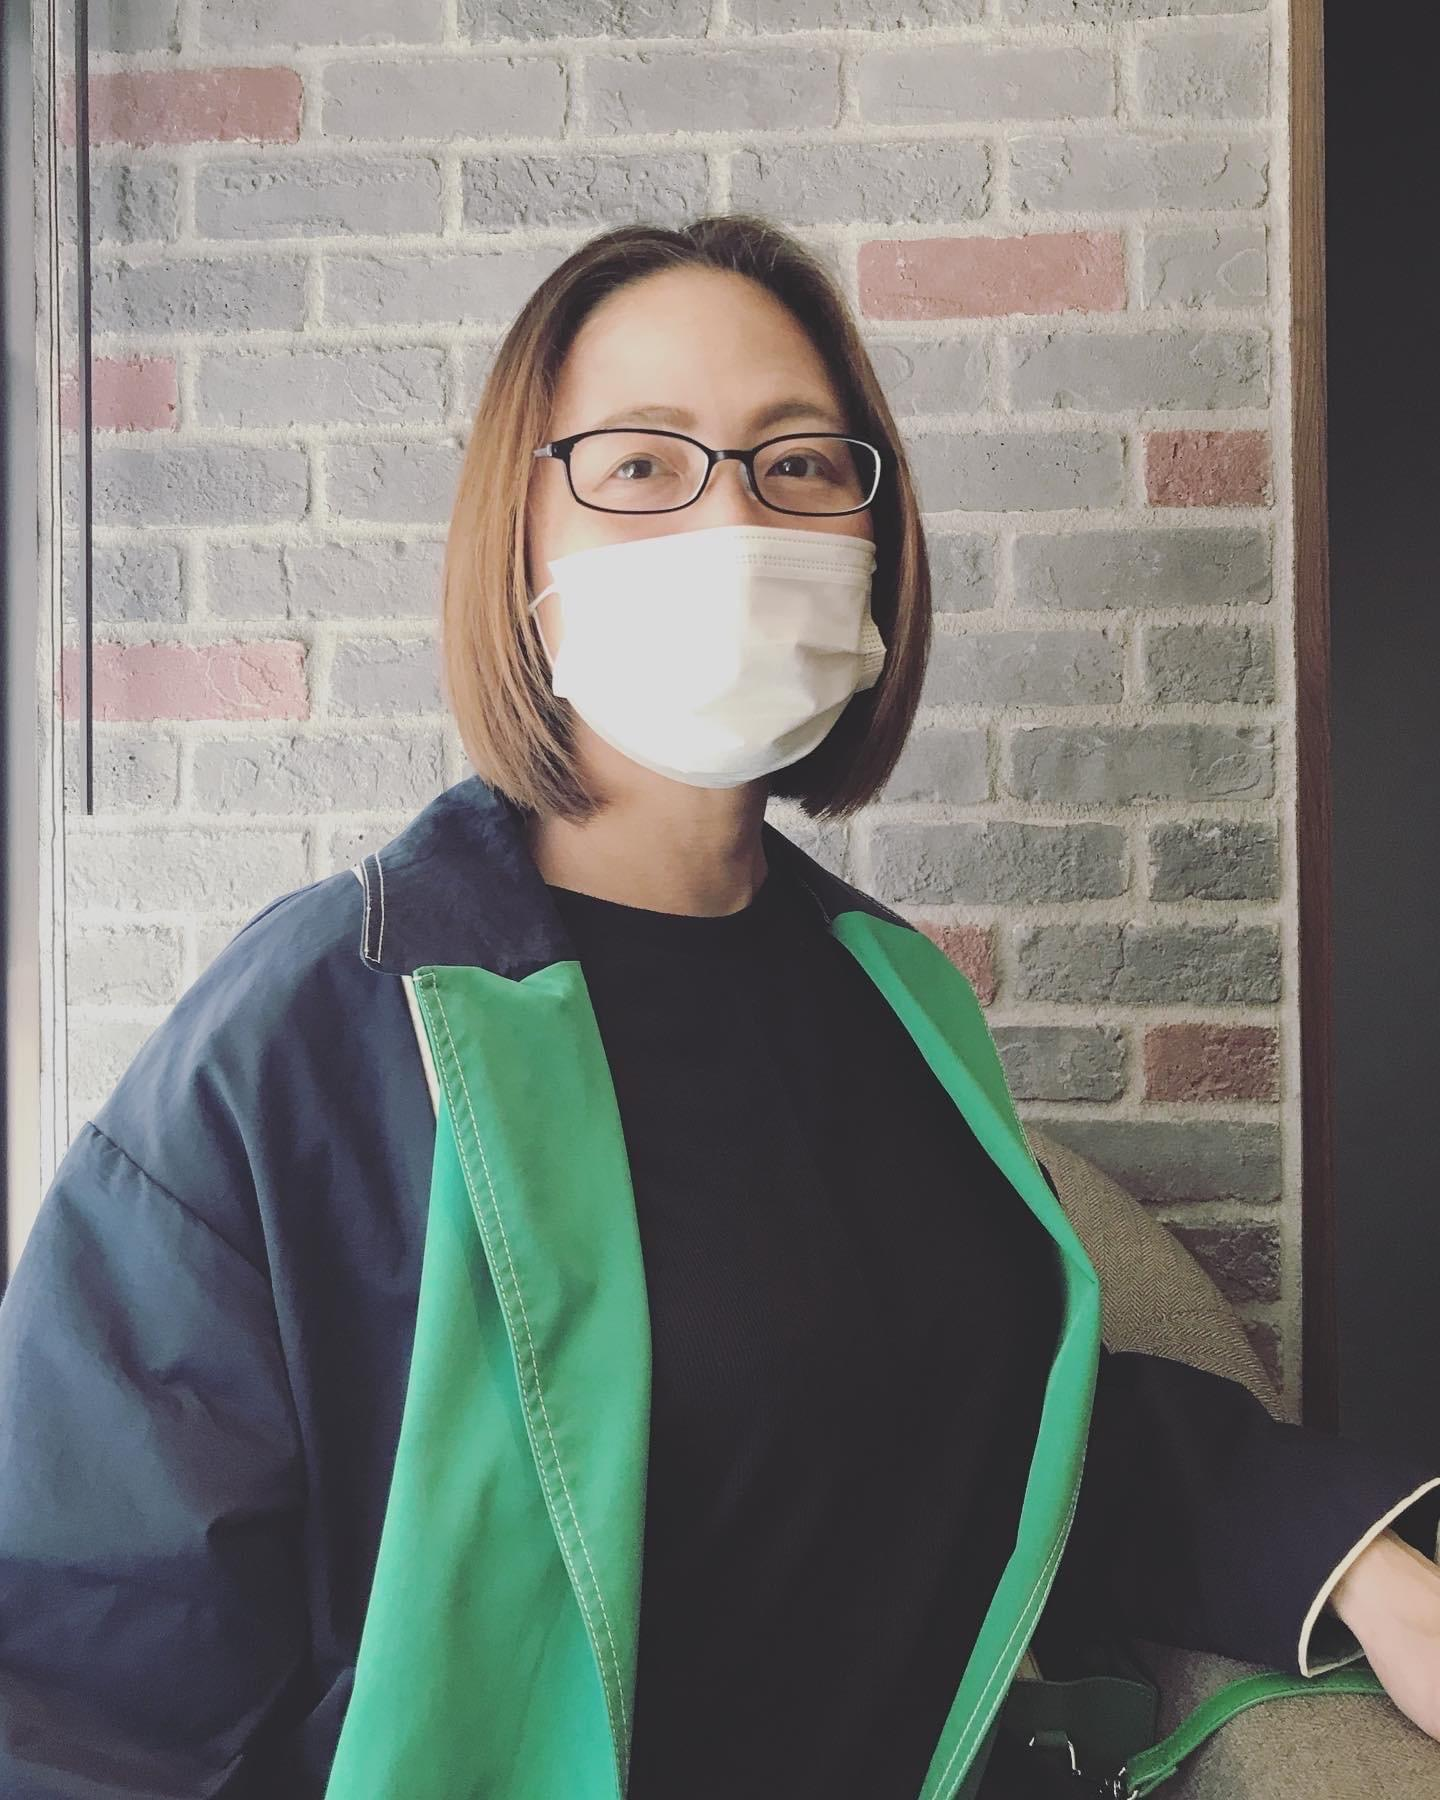
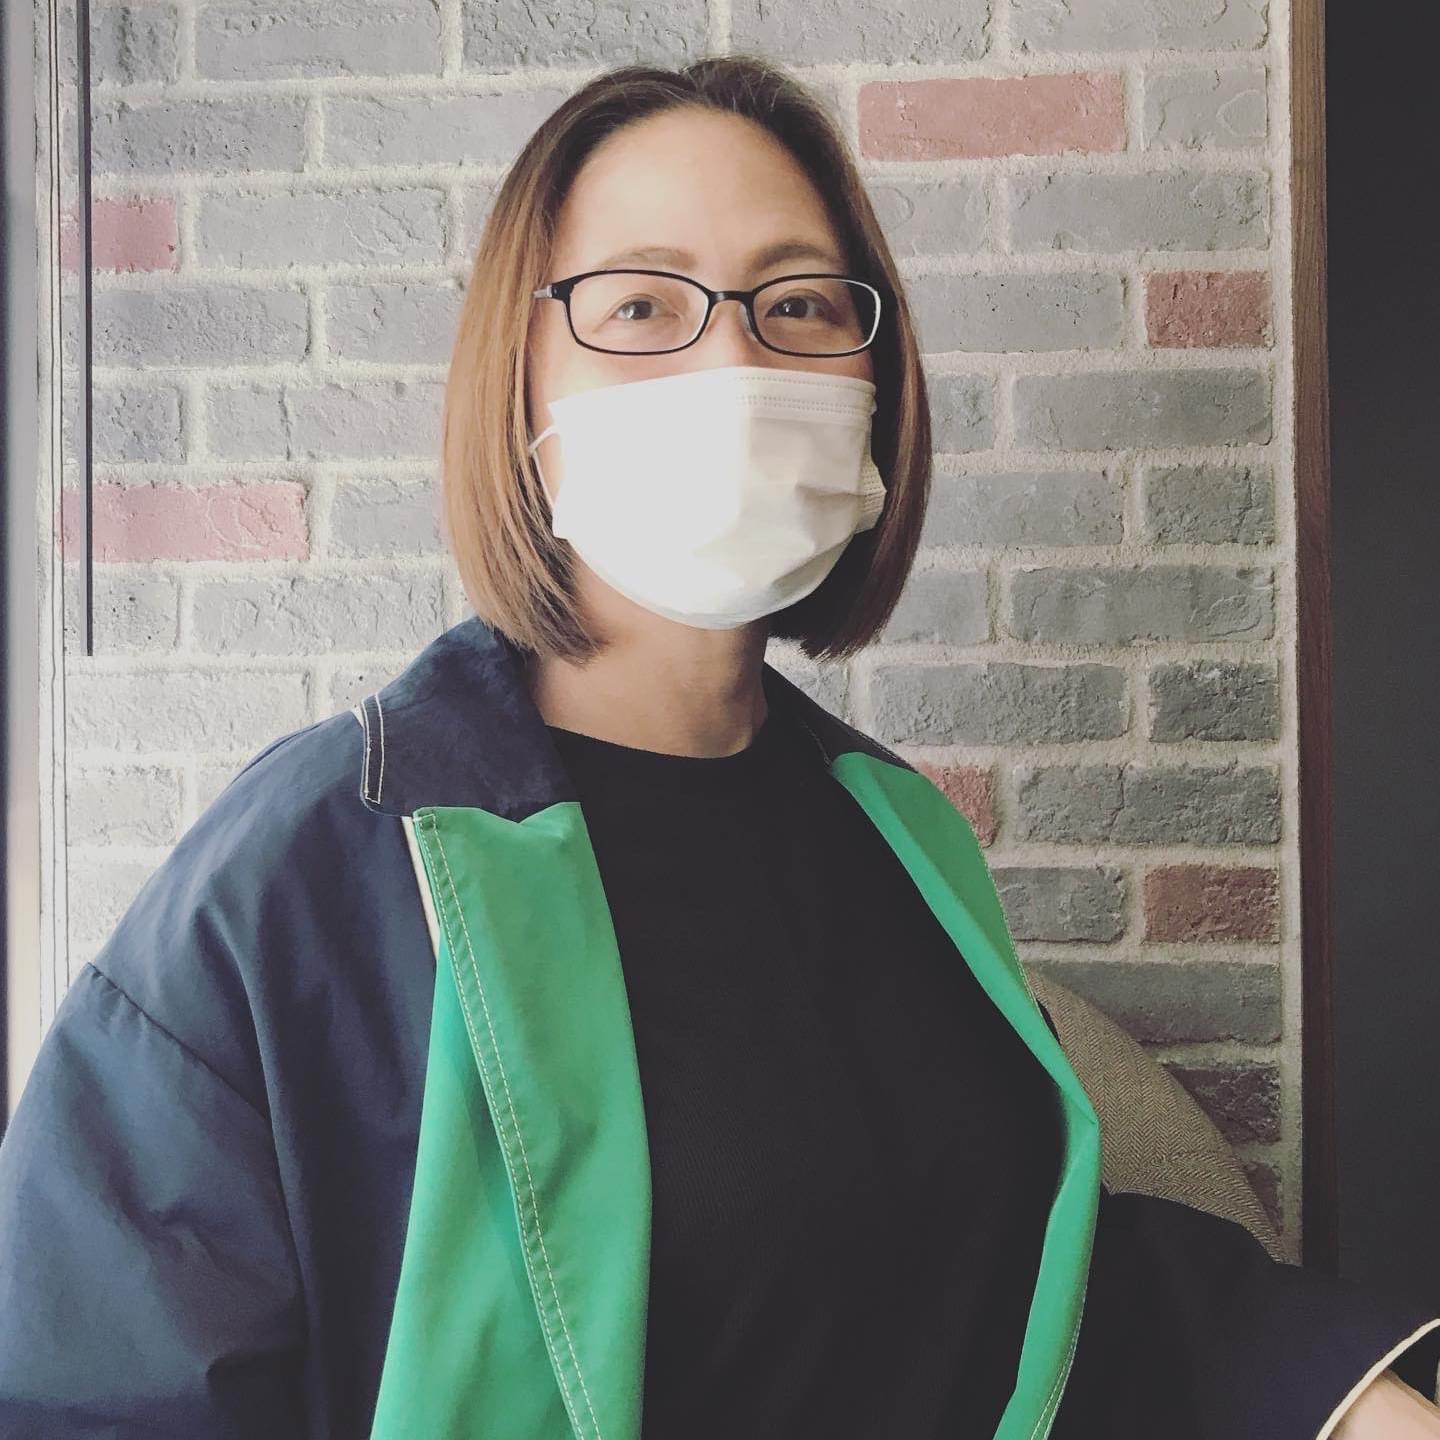
スタッフ画像を更新

diff --git a/app/utils/staffs.constants.ts b/app/utils/staffs.constants.ts
@@ -11,7 +11,7 @@ export const staffList: IStaff[] = [
   { name: 'happylifetaka', image: 'happylifetaka.png', twitterID: 'happylifetaka' },
   { name: 'hayashi171', image: 'hayashi171.jpeg', twitterID: '' },
   { name: 'jiyuujin', image: 'jiyuujin.png', twitterID: 'jiyuujinlab' },
-  { name: 'kame', image: 'kame.jpeg', twitterID: 'dir20634' },
+  { name: 'kame', image: 'kame.png', twitterID: 'dir20634' },
   { name: 'katuaki', image: '', twitterID: '' },
   { name: 'kazupon', image: 'kazupon.png', twitterID: 'kazu_pon' },
   { name: 'kazuyan', image: 'kazuyan.jpeg', twitterID: 'D_kazuyan' },
@@ -19,7 +19,7 @@ export const staffList: IStaff[] = [
   { name: 'kiaking', image: 'kiaking.jpeg', twitterID: 'kiaking' },
   { name: 'Kotaki', image: 'kotaki.jpeg', twitterID: 'j_jack01' },
   { name: 'maco', image: 'maco.jpeg', twitterID: 'maco_rasp' },
-  { name: 'Masamita', image: 'masamita.jpeg', twitterID: '' },
+  { name: 'Masamita', image: 'masamita.jpg', twitterID: '' },
   { name: 'Migii', image: 'migii.jpeg', twitterID: 'migii_1001' },
   { name: 'Miki Kuramata', image: '', twitterID: '' },
   { name: 'miyake', image: 'miyake.jpeg', twitterID: 'kazuyukimiyake' },
@@ -28,7 +28,7 @@ export const staffList: IStaff[] = [
   { name: 'Nozomu Ikuta', image: 'nozomu_ikuta.png', twitterID: 'NozomuIkuta' },
   { name: 'okakyo', image: 'okakyo.jpeg', twitterID: 'okakyo' },
   { name: 'rishihara', image: 'rishihara.jpeg', twitterID: '' },
-  { name: 'robjam', image: 'robjam.png', twitterID: 'robjamdev' },
+  { name: 'robjam', image: 'robjam.JPG', twitterID: 'robjamdev' },
   { name: 'rry', image: 'rry.jpeg', twitterID: 'ryamakuchi' },
   { name: 'Rui Kiyoshima', image: '', twitterID: '' },
   { name: 'ryo_gk', image: 'ryo_gk.jpeg', twitterID: 'ryo_gk55' },
@@ -58,4 +58,6 @@ export const staffList: IStaff[] = [
   { name: '米澤真衣', image: 'fuzno.jpeg', twitterID: 'fuzno' },
   { name: 'naramochi', image: 'naramochi.png', twitterID: '_naramochi' },
   { name: 'moabear', image: 'moabear.jpeg', twitterID: '' },
+  { name: 'oreo', image: 'oreo.png', twitterID: 'oreo2991' },
+  { name: 'watsuyo', image: 'watsuyo.jpg', twitterID: 'watsuyo_2' },
 ]
